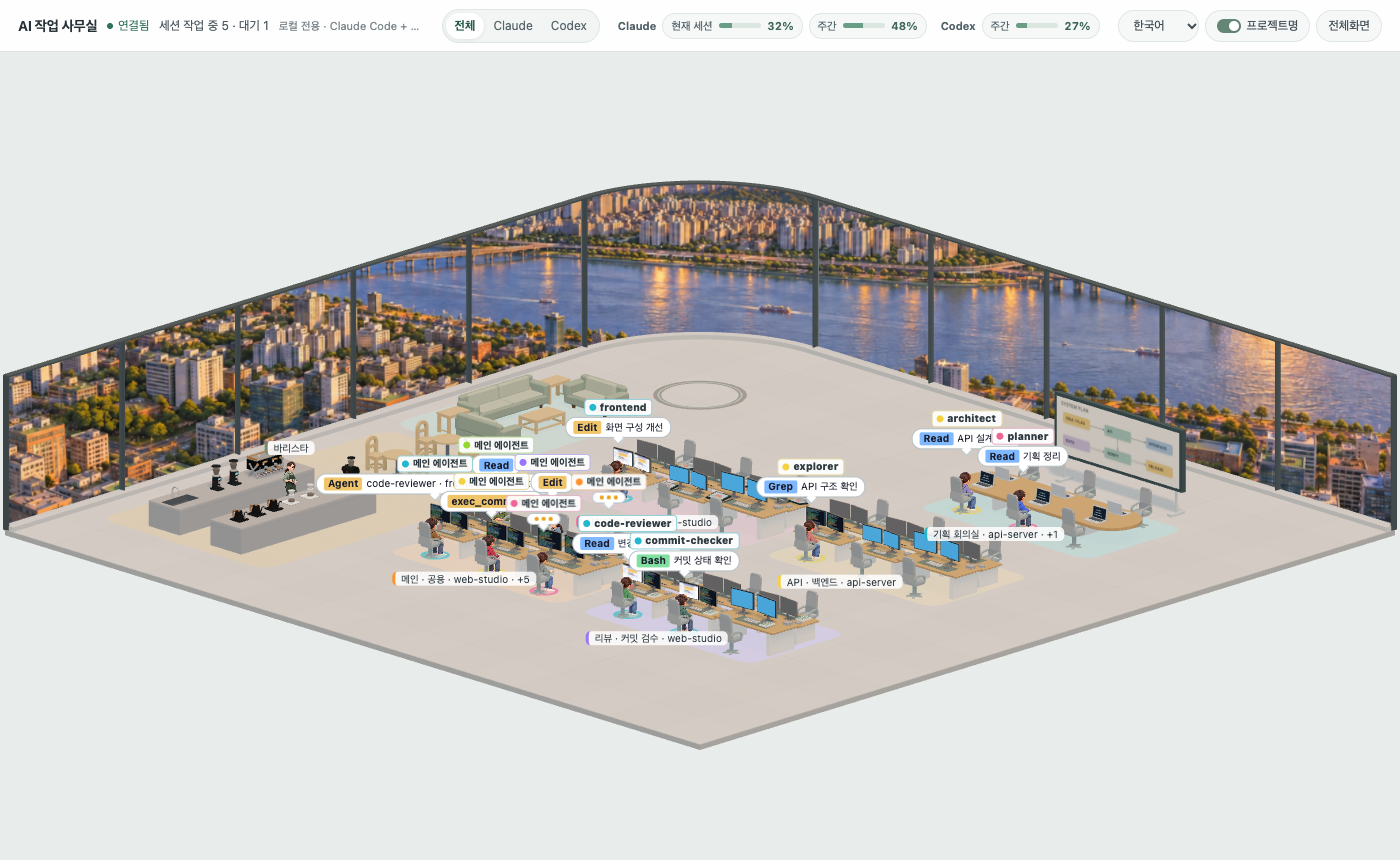
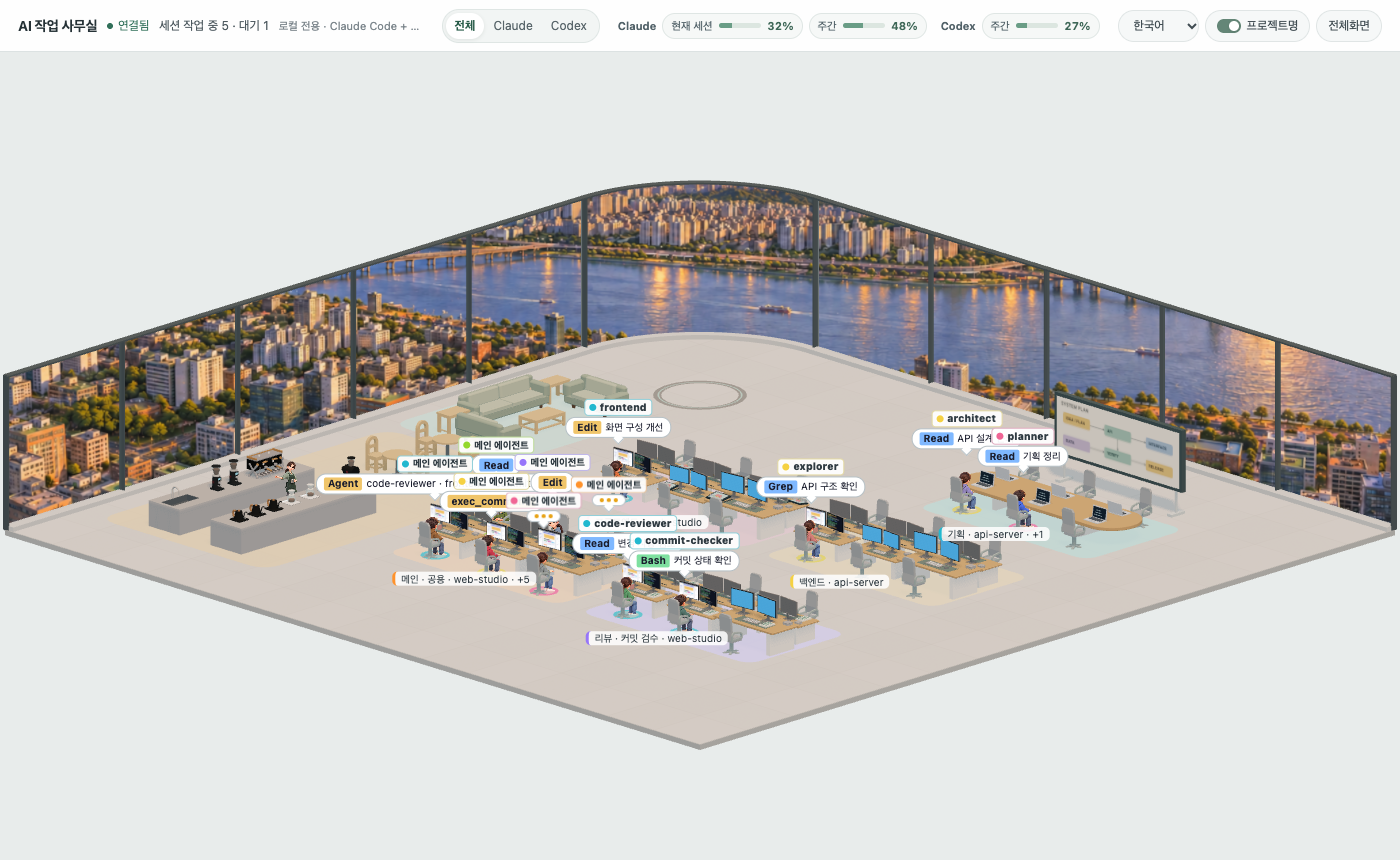
Smooth elevator and update office displays

diff --git a/src/agent-office/scene.ts b/src/agent-office/scene.ts
@@ -94,7 +94,7 @@ import { classifyRole, roleZone, roleLabel, pickRoleSeat, sharedSeatForSlot, sha
 import { addRoleFurniture } from './roleFurniture'
 import { nightness } from './windowView'
 import { createSeoulBackdrop, panoramaWeights } from './exterior'
-import { FloorElevator } from './elevator'
+import { arrivalCanAppear, FloorElevator } from './elevator'
 import { curvedTrimGeometry, curvedWindowGeometry } from './windowGeometry'
 import { instanceStaticMeshes } from './staticMeshes'
 
@@ -783,7 +783,7 @@ export class OfficeScene {
   private assets: OfficeAssets | null = null
   private chars = new Map<string, Char>()
   private elevator: { motion: FloorElevator; pod: Group; signal: MeshStandardMaterial } | null = null
-  private barista: { mixer: AnimationMixer; label: HTMLElement; spritePerson: SpritePerson | null; elapsed: number } | null = null
+  private barista: { mixer: AnimationMixer; spritePerson: SpritePerson | null; elapsed: number } | null = null
   private zones: (string | null)[] = new Array(ZONE_COUNT).fill(null)
   private zoneMats: MeshBasicMaterial[] = []
   private zoneLabels: { el: HTMLElement; obj: CSS2DObject }[] = []
@@ -1173,7 +1173,7 @@ export class OfficeScene {
       if (ch.ridingDown) { passengers = true; continue }
       if (ch.entering && !ch.leaving && ch.delay <= 0.5) {
         requested = true
-        if (ch.delay <= 0 && Math.hypot(ch.x - DOOR.x, ch.z - DOOR.z) < 1) arrivalsInside = true
+        if (ch.delay <= 0 && ch.holder.visible && Math.hypot(ch.x - DOOR.x, ch.z - DOOR.z) < 1) arrivalsInside = true
       }
       if (ch.leaving && Math.hypot(ch.x - DOOR.x, ch.z - DOOR.z) < 1.8) requested = true
     }
@@ -1218,14 +1218,7 @@ export class OfficeScene {
       mixer.clipAction(barista3d!.clips.coffee).play()
     }
     this.scene.add(model)
-    const label = document.createElement('div')
-    label.className = 'ao-zone'
-    label.style.setProperty('--team', '#768b69')
-    label.textContent = t().barista
-    const marker = new CSS2DObject(label)
-    marker.position.set(LAYOUT.barista.x, CHAR_HEIGHT + 0.32, LAYOUT.barista.z)
-    this.scene.add(marker)
-    this.barista = { mixer, label, spritePerson, elapsed: 0 }
+    this.barista = { mixer, spritePerson, elapsed: 0 }
   }
 
   private placeCafeDetails() {
@@ -2217,7 +2210,6 @@ export class OfficeScene {
           this.barista.mixer.update(dt)
           this.barista.elapsed += dt
           this.barista.spritePerson?.update(0, 'work', this.barista.elapsed, null, 0)
-          this.barista.label.textContent = t().barista
         }
         this.updateScreens(dt)
         this.updateExterior()
@@ -2448,7 +2440,10 @@ export class OfficeScene {
     })
     const holder = new Group()
     holder.add(model)
-    if (spritePerson) holder.add(spritePerson.sprite)
+    if (spritePerson) {
+      spritePerson.sprite.material.clippingPlanes = [FLOOR_CLIP]
+      holder.add(spritePerson.sprite)
+    }
     this.scene.add(holder)
 
     // 팀 색 발밑 링
@@ -2824,6 +2819,8 @@ export class OfficeScene {
         ch.holder.visible = ch.ring.visible = false
         continue
       }
+      if (ch.entering && !ch.holder.visible && !arrivalCanAppear(DOOR,
+        [...this.chars.values()].map(other => ({ x: other.x, z: other.z, entering: other.entering, visible: other.holder.visible, removed: other.removed })))) continue
       if (!ch.holder.visible) {
         ch.holder.visible = true
         ch.ring.visible = true

diff --git a/src/agent-office/elevator.ts b/src/agent-office/elevator.ts
@@ -1,28 +1,50 @@
 /** A glass lift rises from below the floor, waits for traffic, then retracts. */
 export class FloorElevator {
   readonly bottom = -1.5
+  readonly travelTime = 1.4
   height = this.bottom
   state: 'hidden' | 'rising' | 'ready' | 'lowering' = 'hidden'
   private hold = 0
+  private travel = 0
 
   get ready() {
     return this.state === 'ready'
   }
 
   update(dt: number, requested: boolean, depart = false) {
-    if (this.state === 'hidden' && requested) this.state = 'rising'
+    if (this.state === 'hidden' && requested) {
+      this.state = 'rising'
+      this.travel = 0
+    }
     if (this.state === 'rising') {
-      this.height = Math.min(0, this.height + dt * 1.2)
-      if (this.height === 0) {
+      this.travel = Math.min(this.travelTime, this.travel + Math.max(0, dt))
+      const t = this.travel / this.travelTime
+      this.height = this.bottom * (1 - t * t * (3 - 2 * t))
+      if (this.travel === this.travelTime) {
+        this.height = 0
         this.state = 'ready'
         this.hold = 1.1
       }
     } else if (this.state === 'ready') {
       this.hold = requested ? 1.1 : Math.max(0, this.hold - dt)
-      if (depart || this.hold === 0) this.state = 'lowering'
+      if (depart || this.hold === 0) {
+        this.state = 'lowering'
+        this.travel = 0
+      }
     } else if (this.state === 'lowering') {
-      this.height = Math.max(this.bottom, this.height - dt * 1.2)
-      if (this.height === this.bottom) this.state = 'hidden'
+      this.travel = Math.min(this.travelTime, this.travel + Math.max(0, dt))
+      const t = this.travel / this.travelTime
+      this.height = this.bottom * t * t * (3 - 2 * t)
+      if (this.travel === this.travelTime) this.state = 'hidden'
     }
   }
+}
+
+/** Allow one visible arrival in the cabin at a time. */
+export function arrivalCanAppear(
+  cabin: { x: number; z: number },
+  others: readonly { x: number; z: number; entering: boolean; visible: boolean; removed: boolean }[],
+) {
+  return !others.some(other => other.entering && other.visible && !other.removed
+    && Math.hypot(other.x - cabin.x, other.z - cabin.z) < 0.85)
 }

diff --git a/src/agent-office/__tests__/elevator.spec.ts b/src/agent-office/__tests__/elevator.spec.ts
@@ -1,5 +1,5 @@
 import { describe, expect, it } from 'vitest'
-import { FloorElevator } from '../elevator'
+import { arrivalCanAppear, FloorElevator } from '../elevator'
 import { DOOR, ELEVATOR, LAYOUT, cellOf, findPath, key } from '../layout'
 
 describe('엘리베이터 출입', () => {
@@ -37,6 +37,31 @@ describe('엘리베이터 출입', () => {
     expect(lift.state).toBe('rising')
     lift.update(10, true)
     expect(lift.height).toBe(0)
+  })
+
+  it('출발과 도착에서 속도를 부드럽게 줄이며 왕복한다', () => {
+    const lift = new FloorElevator()
+    const positions = [lift.height]
+    for (let i = 0; i < 14; i++) {
+      lift.update(0.1, true)
+      positions.push(lift.height)
+    }
+    expect(lift.ready).toBe(true)
+    expect(positions[1] - positions[0]).toBeLessThan(positions[7] - positions[6])
+    expect(positions[14] - positions[13]).toBeLessThan(positions[7] - positions[6])
+    lift.update(0, false, true)
+    for (let i = 0; i < 14; i++) lift.update(0.1, false)
+    expect(lift.state).toBe('hidden')
+    expect(lift.height).toBe(lift.bottom)
+  })
+
+  it('먼저 도착한 사람이 객실을 벗어나야 다음 사람이 나타난다', () => {
+    const cabin = { x: 3, z: 3 }
+    const arrival = { x: 3, z: 3, entering: true, visible: true, removed: false }
+    expect(arrivalCanAppear(cabin, [arrival])).toBe(false)
+    expect(arrivalCanAppear(cabin, [{ ...arrival, visible: false }])).toBe(true)
+    expect(arrivalCanAppear(cabin, [{ ...arrival, x: 4 }])).toBe(true)
+    expect(arrivalCanAppear(cabin, [{ ...arrival, removed: true }])).toBe(true)
   })
 
   it('화면 위쪽 중앙의 엘리베이터에서 객실·로비를 거쳐 모든 자리까지 오갈 수 있고 객실 뒤·옆은 막혀 있다', () => {

diff --git a/src/agent-office/roles.ts b/src/agent-office/roles.ts
@@ -3,10 +3,10 @@ import type { Locale } from '../i18n'
 export type OfficeRole = 'planning' | 'backend' | 'frontend' | 'review' | 'ops' | 'general'
 export const ROLE_ORDER: OfficeRole[] = ['planning', 'backend', 'frontend', 'review', 'ops', 'general']
 const names: Record<Locale, string[]> = {
-  ko: ['기획 회의실', 'API · 백엔드', '디자인 스튜디오', '리뷰 · 검수', '리뷰 · 커밋 검수', '메인 · 공용'],
-  en: ['Planning room', 'API · Backend', 'Design studio', 'Review · QA', 'Review · Release', 'Main · Shared'],
-  ja: ['企画会議室', 'API・バックエンド', 'デザインスタジオ', 'レビュー・検証', 'レビュー・コミット検証', 'メイン・共用'],
-  zh: ['规划会议室', 'API · 后端', '设计工作室', '审查 · 验证', '审查 · 提交验证', '主代理 · 公共区'],
+  ko: ['기획', '백엔드', '프론트엔드', '리뷰 · 검수', '리뷰 · 커밋 검수', '메인 · 공용'],
+  en: ['Planning', 'Backend', 'Frontend', 'Review · QA', 'Review · Release', 'Main · Shared'],
+  ja: ['企画', 'バックエンド', 'フロントエンド', 'レビュー・検証', 'レビュー・コミット検証', 'メイン・共用'],
+  zh: ['规划', '后端', '前端', '审查 · 验证', '审查 · 提交验证', '主代理 · 公共区'],
 }
 export const roleLabel = (zone: number, locale: Locale) => names[locale][zone]
 

diff --git a/src/agent-office/__tests__/roles.spec.ts b/src/agent-office/__tests__/roles.spec.ts
@@ -1,9 +1,15 @@
 import { describe, expect, it, vi } from 'vitest'
-import { classifyRole, pickRoleSeat, roleZone, sharedSeatForSlot, sharedSlotForSeat } from '../roles'
+import { classifyRole, pickRoleSeat, roleLabel, roleZone, sharedSeatForSlot, sharedSlotForSeat } from '../roles'
 import { CAFE, LAYOUT, ZONE_ORIGIN, type Seat } from '../layout'
 import { OfficeScene } from '../scene'
 
 describe('role workspaces', () => {
+  it('uses concise planning, backend and frontend labels in each language', () => {
+    expect([0, 1, 2].map(zone => roleLabel(zone, 'ko'))).toEqual(['기획', '백엔드', '프론트엔드'])
+    expect([0, 1, 2].map(zone => roleLabel(zone, 'en'))).toEqual(['Planning', 'Backend', 'Frontend'])
+    expect([0, 1, 2].map(zone => roleLabel(zone, 'ja'))).toEqual(['企画', 'バックエンド', 'フロントエンド'])
+    expect([0, 1, 2].map(zone => roleLabel(zone, 'zh'))).toEqual(['规划', '后端', '前端'])
+  })
   it.each([
     ['Plan', '', 'planning'], ['feature:architect', '', 'planning'],
     ['worker', 'API 응답 처리', 'backend'], ['frontend-developer', '', 'frontend'],

diff --git a/src/agent-office/__tests__/layout.spec.ts b/src/agent-office/__tests__/layout.spec.ts
@@ -53,7 +53,7 @@ describe('사무실 배치', () => {
       }
       expect(screens).toHaveLength(2)
       const [left, right] = [...screens].sort((a, b) => a.x - b.x)
-      expect([left.screenKind, right.screenKind]).toEqual(seat.zone === 2 || seat.zone === 3 ? ['design', 'design'] : seat.zone === 4 ? ['design', 'terminal'] : ['terminal', 'terminal'])
+      expect([left.screenKind, right.screenKind]).toEqual(seat.yaw === 0 ? ['terminal', 'design'] : ['design', 'terminal'])
       // 의자 바로 뒤(-z)의 책상. 같은 열의 다른 줄·구역 책상과 헷갈리지 않게 가장 가까운 것을 고른다
       const desk = LAYOUT.items
         .filter((i) => i.model === 'desk' && i.zone === seat.zone && Math.abs(i.x - seat.cx) < 0.01)

diff --git a/src/agent-office/layout.ts b/src/agent-office/layout.ts
@@ -487,7 +487,8 @@ function build(): OfficeLayout {
           rot: (p.yaw === 0 ? Math.PI : 0) - side * 0.10,
           s: p.lead ? 1.35 : 1.15,
           screenOf: id,
-          screenKind: z === 2 || (z === 4 && side < 0) ? 'design' : 'terminal',
+          // The seated worker sees the webpage on the left and code on the right.
+          screenKind: side * Math.cos(p.yaw) > 0 ? 'design' : 'terminal',
         })
       }
       if (z !== 0) put({ model: 'computerKeyboard', x: p.dx, z: p.dz - Math.cos(p.yaw) * 0.1 * s, y: top, s, rot: p.yaw })

diff --git a/README.en.md b/README.en.md
@@ -15,7 +15,7 @@ The main agent types at its desk, delegated subagents work at the desks next to 
 ![Platform](https://img.shields.io/badge/macOS%20%7C%20Linux%20%7C%20Windows-lightgrey)
 ![License: MIT](https://img.shields.io/badge/License-MIT-yellow)
 
-<img src="docs/screenshot.png?v=f7b0992" alt="Agent Office test scene: six sessions and six subagents in an office overlooking Seoul" width="900">
+<img src="docs/screenshot.png?v=office-screens-20261027" alt="Agent Office test scene: six sessions and six subagents in an office overlooking Seoul" width="900">
 
 <p><sub>Shown with synthetic test data: six sessions and six subagents. No real conversations or project information are included.</sub></p>
 
@@ -29,7 +29,7 @@ When you run several Claude Code or Codex sessions, the terminal alone makes it 
 
 ## Features
 
-- **Role workspaces** — The 18×18 office has five areas: planning, API/backend, design, review/commit checks, and main/shared. Each has six seats, for 30 total; up to six sessions are visible.
+- **Role workspaces** — The 18×18 office has five areas: planning, backend, frontend, review/commit checks, and main/shared. Each has six seats, for 30 total; up to six sessions are visible.
 - Seats face one another in each area. Planning has a rounded meeting table, laptops and a diagram board; design has drawing tablets and pens. Review and commit agents share an open six-computer workspace. The diagram board is decorative.
 - Planning occupies the former API area by the right-hand windows; API/backend moves into the previously empty middle-right area. The former planning area remains open.
 - Roles use existing agentType first, then short description metadata. No additional transcript bodies or tool inputs are collected. The current Codex collector supplies no role metadata, so Codex subagents use the shared area. Other unknown roles use the shared area with priority seating for mains. Full role areas use nearby standing spots. Tool changes do not move agents; late role metadata can move an unknown agent once.
@@ -92,7 +92,7 @@ Open <http://localhost:5180> in your browser, then use Claude Code or Codex as u
 - The planning room sits closer to the API area, and work areas are grouped slightly to the right. Visible monitor fronts are filled first; each desktop has a slim silver keyboard, silver monitor stands and one Mac mini-style computer. Planning uses laptops, review has six open workstations, and the café has a wider, shallower bar shifted slightly left, separated tables on a wider café rug, more space between equipment, three kettles and a working barista. Stand lamps and potted plants are omitted.
 - The default characters are **2D sprites** generated from the approved concepts, with directional views, four walking phases and two typing frames, seated and coffee poses. Set `cap: true` in `AGENT_LOOKS` for a cap. `glasses: true` uses the existing 3D character; set `CHARACTER_RENDER_STYLE` to `'3d'` to restore all 3D models. [2D close-up](docs/screenshot-sprite-closeup.png) · [Cap in the office](docs/screenshot-sprite-cap.png)
 - The lounge moves 0.45 units inward from the glazing, leaving more space behind the sofa. The rug, tables, chairs, lights and seated positions move together.
-- Meeting tables have MacBook-style laptops. Design/review desks show design screens; backend/server/shared desks show terminals.
+- Meeting tables have laptops. Occupied desktop workstations show a light web view on the worker’s left and a terminal on the right. The elevator moves smoothly and arrivals exit one at a time.
 - **Mouse wheel** zooms in and out. The top-right button toggles fullscreen.
 - **Click a character or name tag** to open the detail card. Click empty space or press `Esc` to close it.
 - The **language selector** at the top right changes the UI language. It starts with your browser language (English if unsupported) and is remembered in the browser.

diff --git a/README.zh.md b/README.zh.md
@@ -15,7 +15,7 @@
 ![Platform](https://img.shields.io/badge/macOS%20%7C%20Linux%20%7C%20Windows-lightgrey)
 ![License: MIT](https://img.shields.io/badge/License-MIT-yellow)
 
-<img src="docs/screenshot.png?v=f7b0992" alt="Agent Office 测试画面：可眺望首尔的办公室内显示六个会话和六个子智能体" width="900">
+<img src="docs/screenshot.png?v=office-screens-20261027" alt="Agent Office 测试画面：可眺望首尔的办公室内显示六个会话和六个子智能体" width="900">
 
 <p><sub>画面使用模拟测试数据，显示六个会话和六个子智能体，不包含真实对话或项目信息。</sub></p>
 
@@ -29,7 +29,7 @@
 
 ## 主要功能
 
-- **按角色划分空间** — 18×18办公室分为规划、API/后端、设计、审查/提交验证、主代理/公共区五区，每区六座，共30座，最多显示六个会话。
+- **按角色划分空间** — 18×18办公室分为规划、后端、前端、审查/提交验证、主代理/公共区五区，每区六座，共30座，最多显示六个会话。
 - 各区座位面对面布置。规划区有圆角会议桌、笔记本和图解白板；设计区有绘图板和笔；审查与提交代理共用开放的六台电脑工位。白板仅供装饰。
 - 规划会议区移至右侧窗边原API区域，API与后端移至中间右侧原空闲区域；原规划区保持空置。
 - 优先依据已有agentType，再参考简短description。不会额外收集正文或工具输入。未知角色进入公共区，主代理优先使用座位。满座时在相应区旁站立。工具变化不会触发移动，迟到的角色元数据可触发一次重新分配。
@@ -93,7 +93,7 @@ npm run dev
 - 默认使用根据确认的概念图生成的 **2D精灵**，包含不同方向、四阶段行走与两帧打字、坐姿和拿咖啡姿势。在 `AGENT_LOOKS` 设置 `cap: true` 可戴帽；`glasses: true` 使用原有3D角色。将 `CHARACTER_RENDER_STYLE` 设为 `'3d'` 可恢复全部3D模型。[2D实际画面](docs/screenshot-sprite-closeup.png) · [戴帽画面](docs/screenshot-sprite-cap.png)
 - 休息区从窗边向室内移动0.45，为沙发背后留出空间；地毯、桌椅及坐姿位置同步移动。
 - 设计工位的键盘居中，绘图板和笔放在就坐者左侧；面对面的两排工位按各自朝向镜像布置。
-- 会议桌使用笔记本电脑，审查与提交区设有六台电脑。
+- 会议桌使用笔记本电脑。工作中的桌面工位从就坐者视角看左边显示明亮的网页，右边显示终端。电梯平稳升降，角色依次离开。
 - 用**鼠标滚轮**缩放，右上角的按钮切换全屏。
 - **点击角色或名牌**打开详情卡片。点击空白处或按 `Esc` 关闭。
 - 右上角的**语言选择**可以切换界面语言。默认跟随浏览器语言（不支持的语言则显示英语），所选语言会保存在浏览器中。
